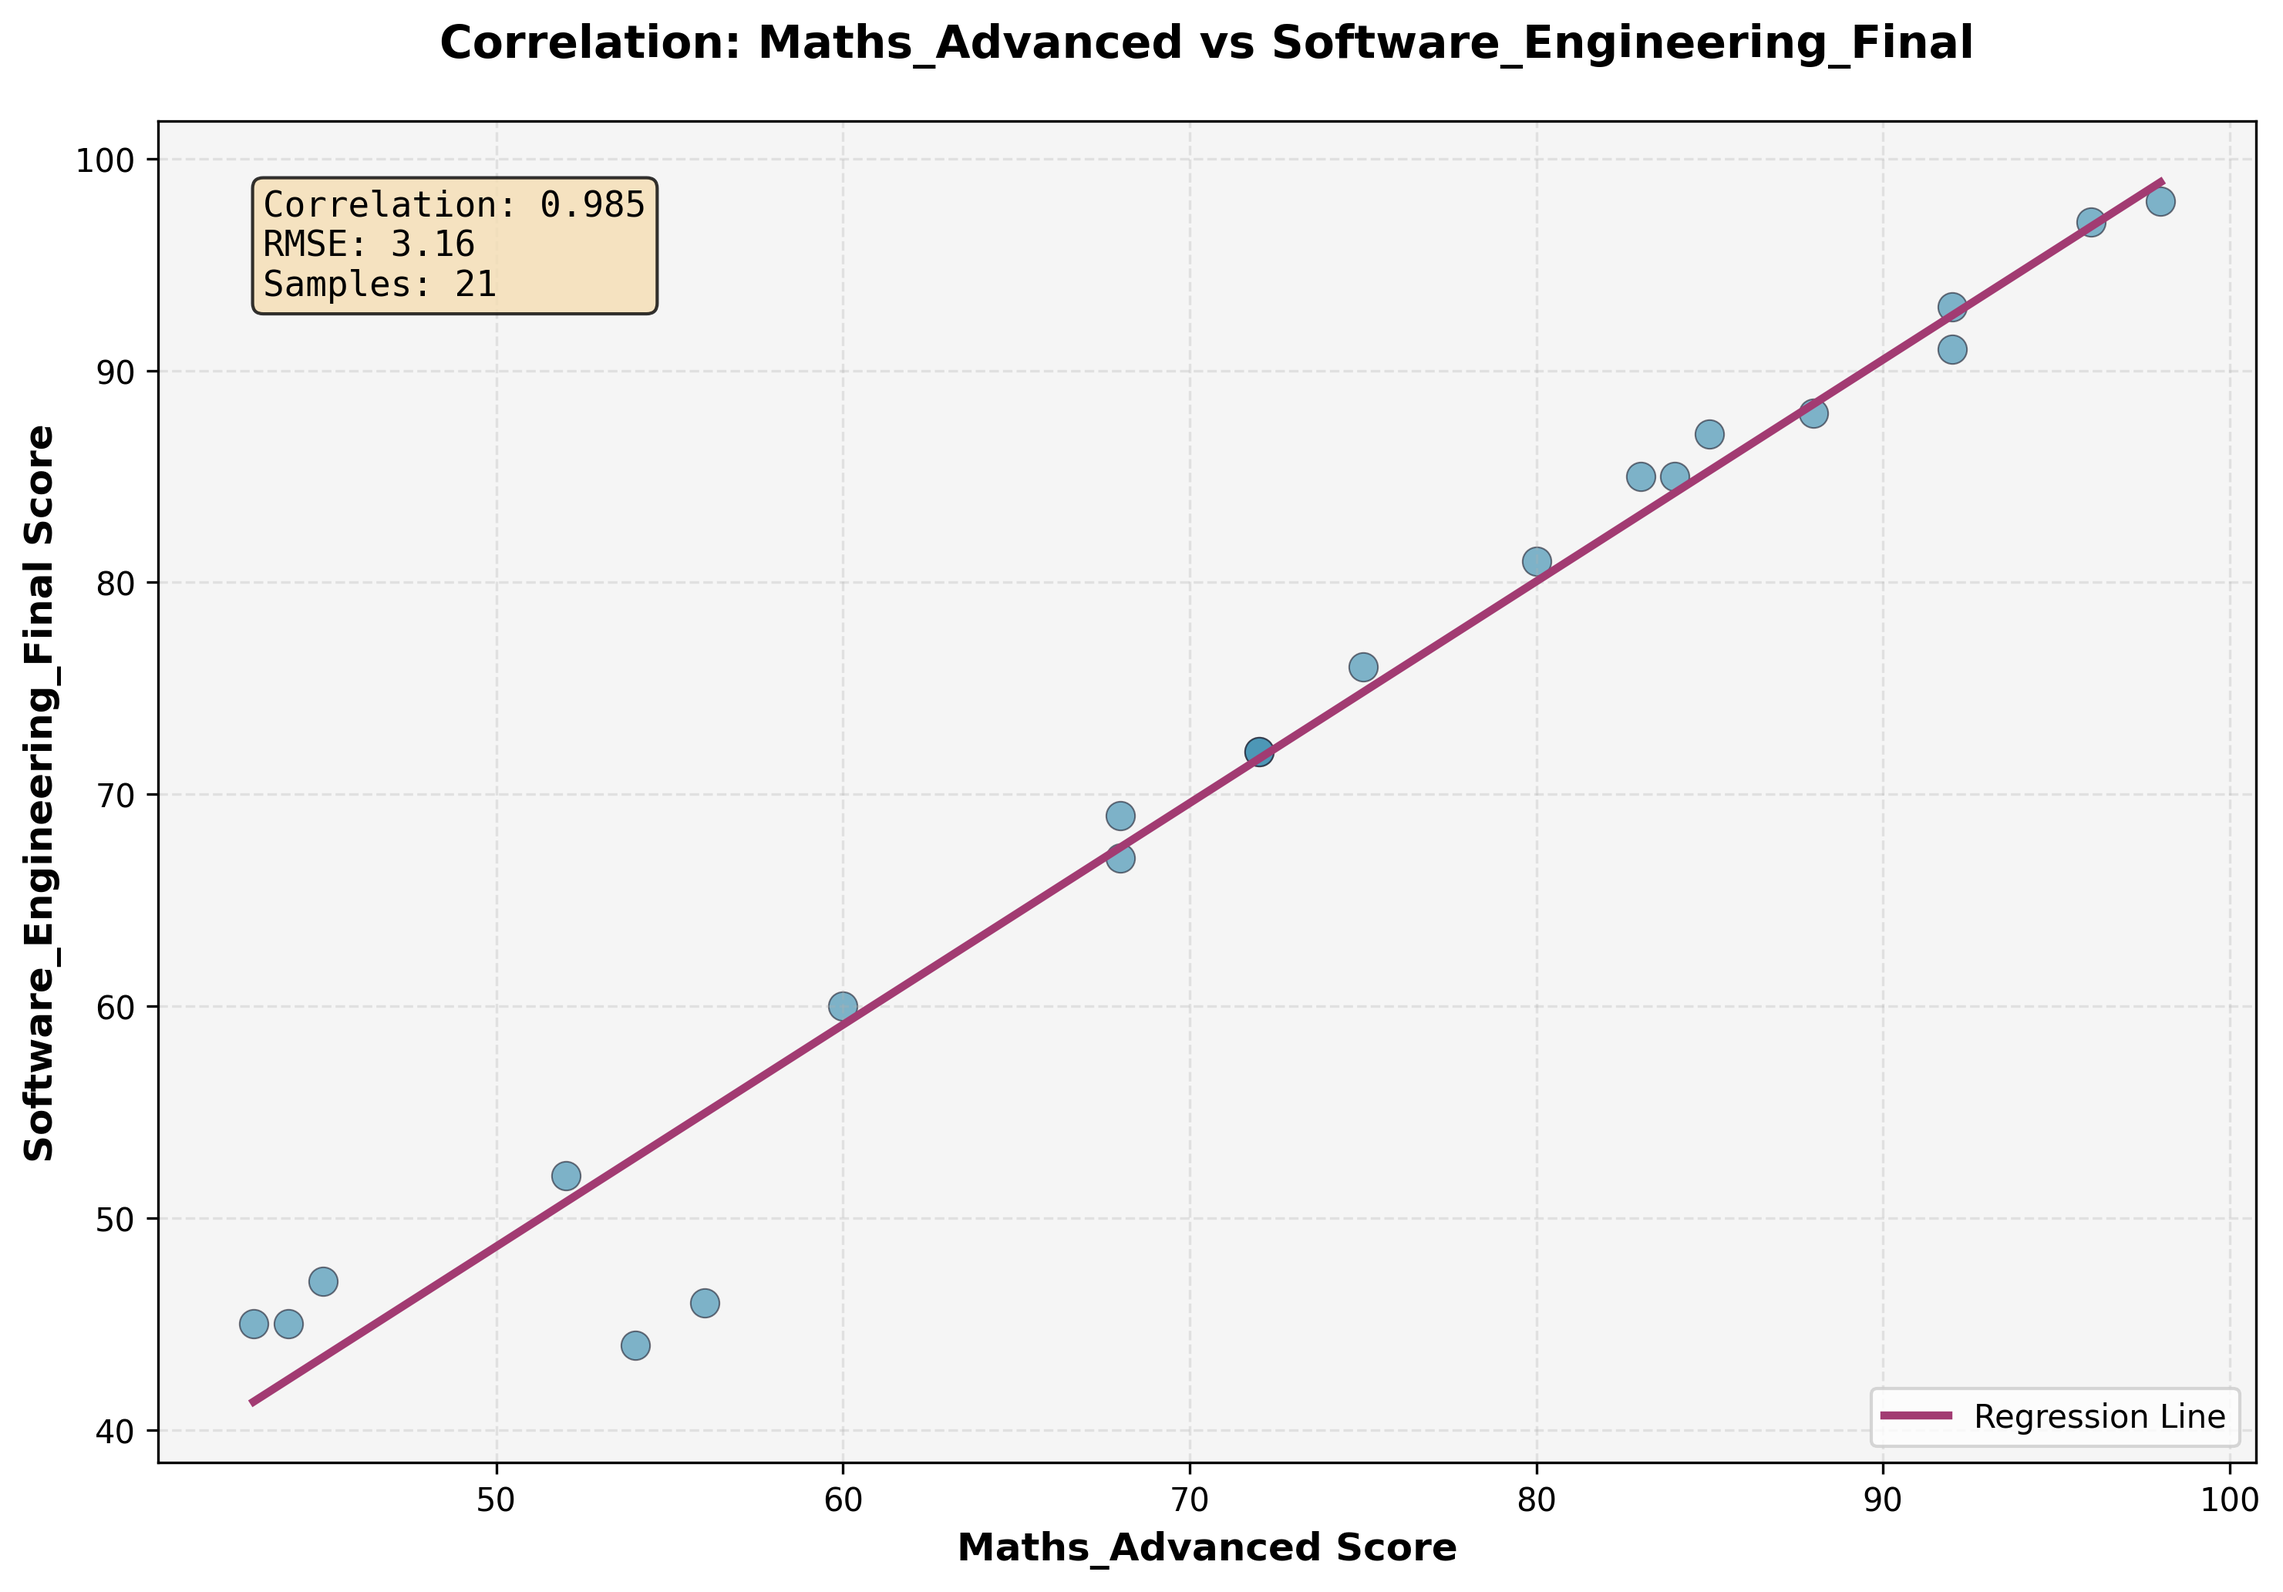
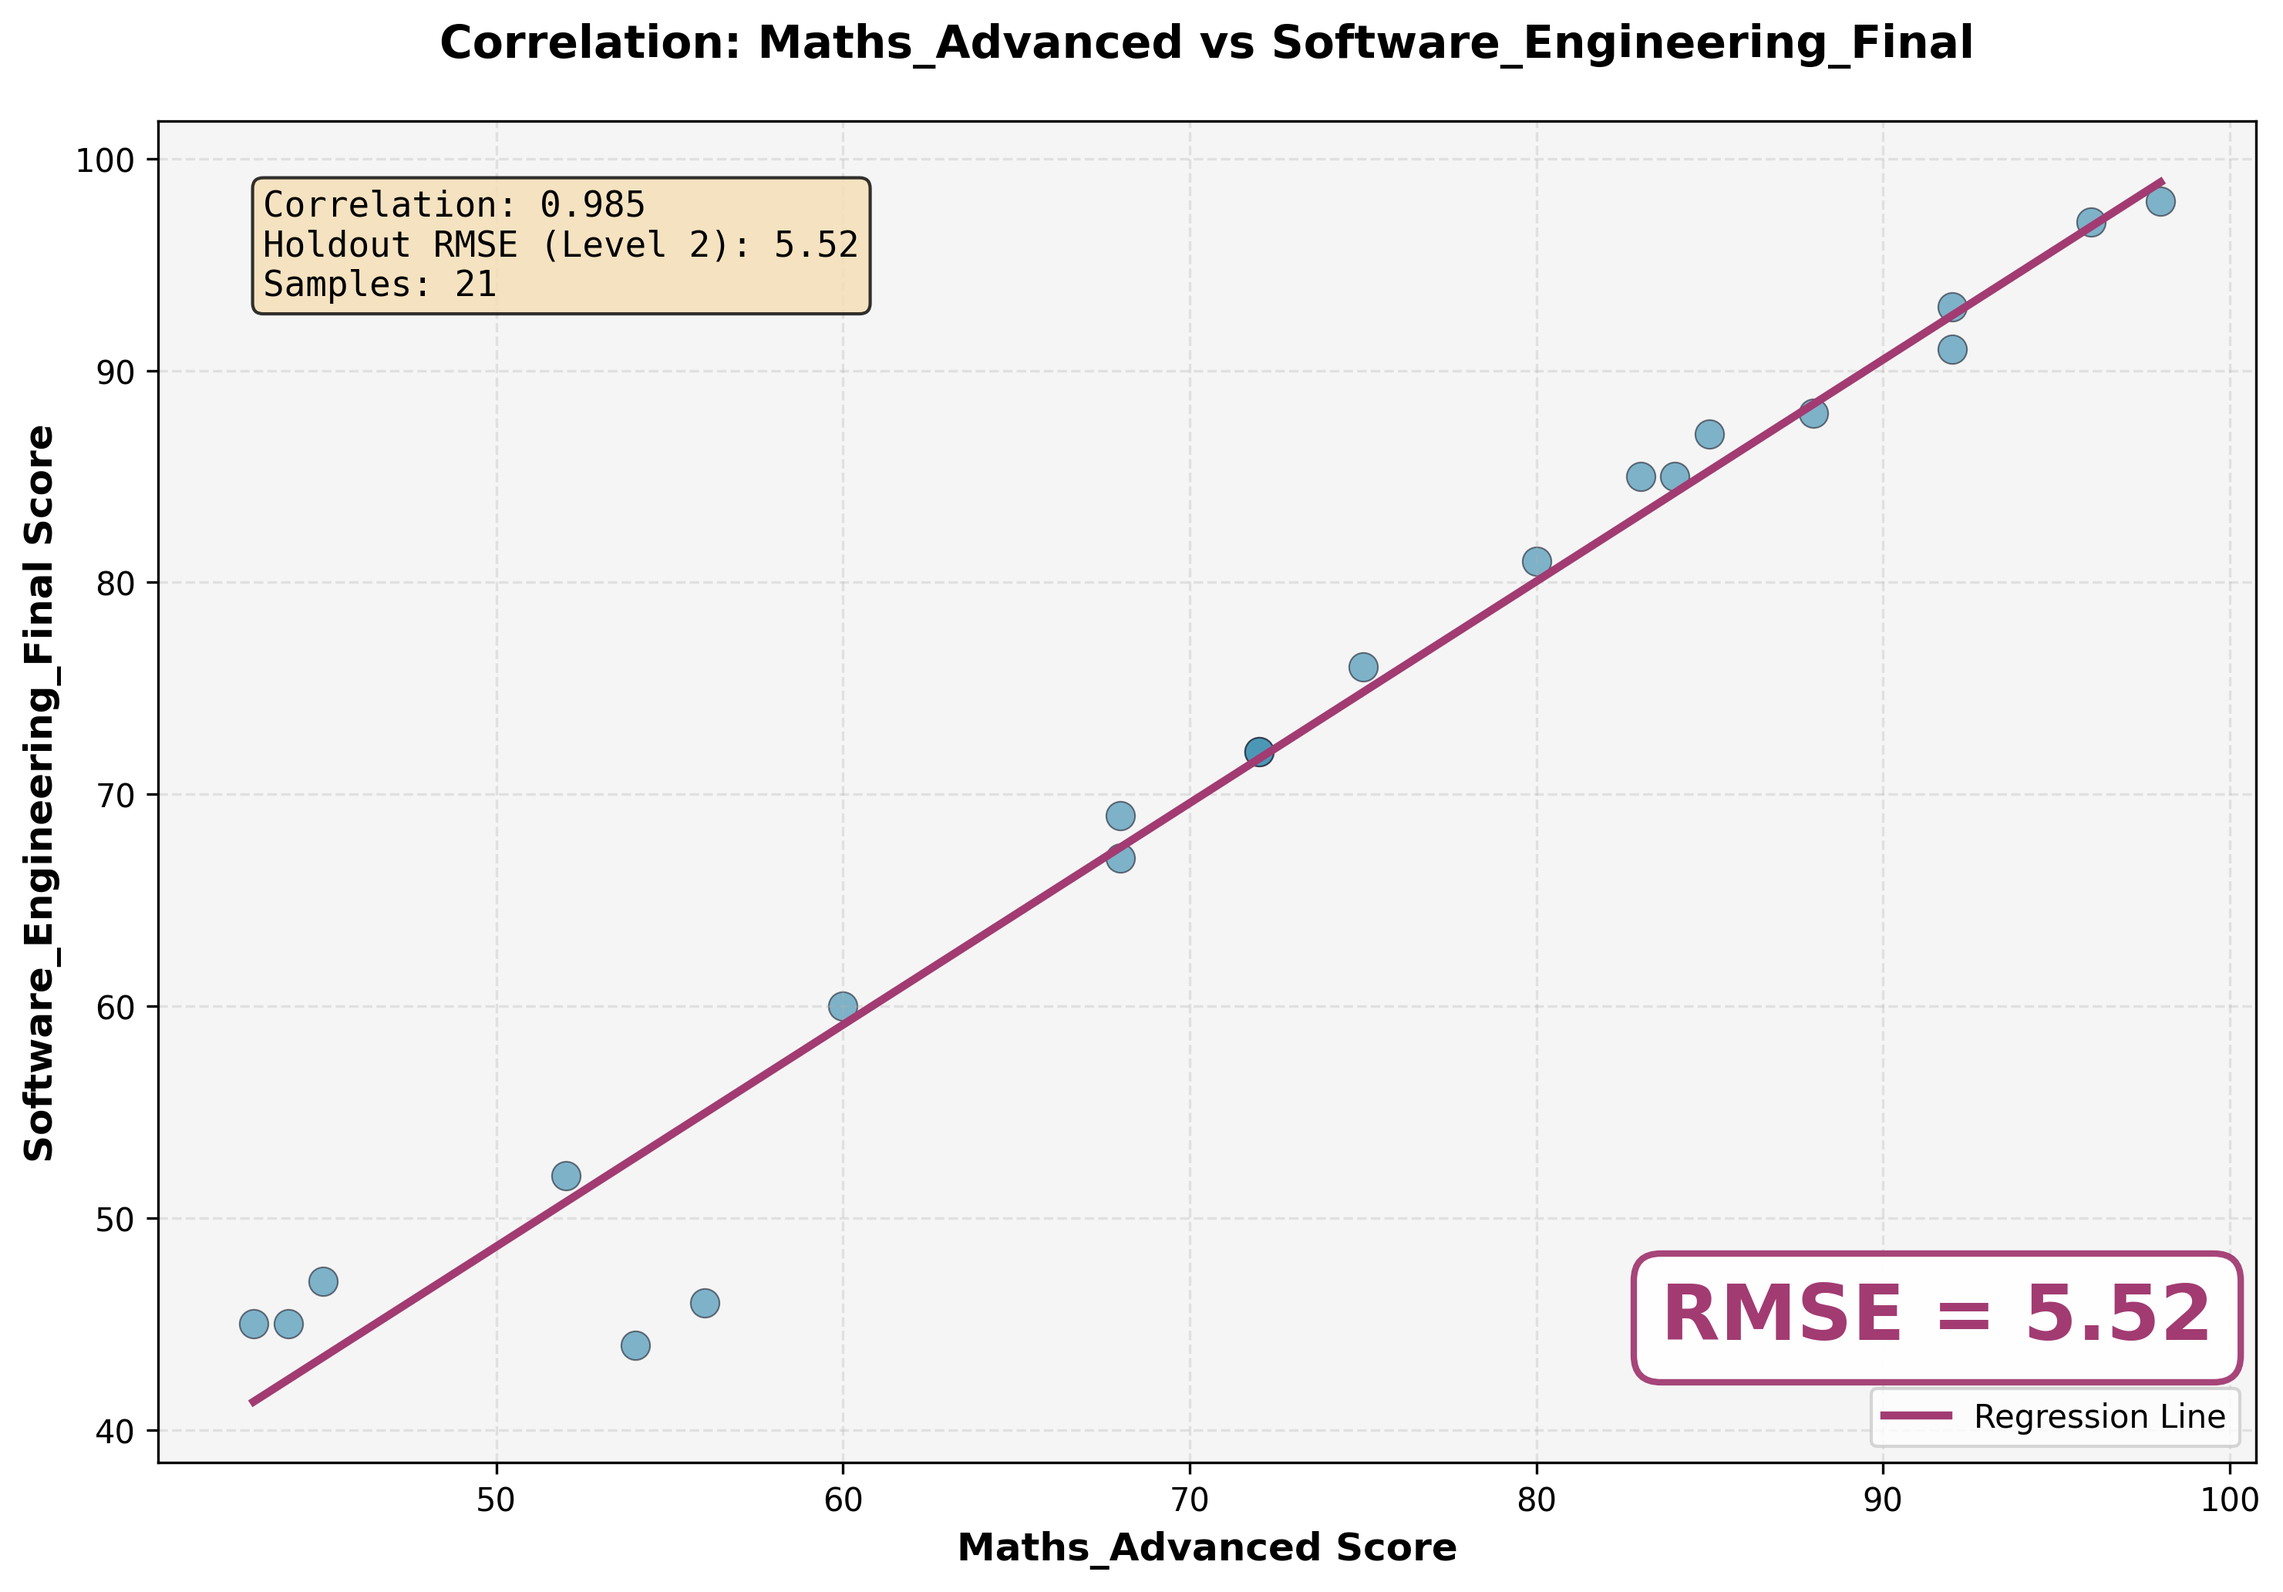
plots + graphs updated to reflect real rmse

diff --git a/visualizations.py b/visualizations.py
@@ -3,11 +3,13 @@
 import matplotlib.pyplot as plt
 import numpy as np
 from sklearn.linear_model import LinearRegression
-from scipy import stats
 
 
 def create_correlation_scatterplot(df, feature='Maths_Advanced', target='Software_Engineering_Final', 
-                                    output_path='correlation_scatterplot.png'):
+                                    output_path='correlation_scatterplot.png',
+                                    rmse_override=None,
+                                    rmse_label='RMSE',
+                                    big_rmse_text=True):
     """
     Generate a 2D scatterplot proving correlation between a feature and target variable.
     
@@ -16,6 +18,9 @@ def create_correlation_scatterplot(df, feature='Maths_Advanced', target='Softwar
         feature: Feature column name (X-axis)
         target: Target column name (Y-axis)
         output_path: Path to save the plot image
+        rmse_override: Optional externally evaluated RMSE (e.g., holdout/test RMSE)
+        rmse_label: Label shown next to RMSE value in the stats box
+        big_rmse_text: Whether to render RMSE as a large prominent overlay
         
     Returns:
         Tuple of (figure, axes, correlation_coefficient, rmse)
@@ -51,11 +56,28 @@ def create_correlation_scatterplot(df, feature='Maths_Advanced', target='Softwar
     ax.set_ylabel(f'{target} Score', fontsize=12, fontweight='bold')
     ax.set_title(f'Correlation: {feature} vs {target}', fontsize=14, fontweight='bold', pad=20)
     
+    # Use the externally evaluated RMSE when provided.
+    rmse_to_display = float(rmse_override) if rmse_override is not None else float(rmse)
+
     # Add statistics box
-    stats_text = f'Correlation: {correlation:.3f}\nRMSE: {rmse:.2f}\nSamples: {len(df)}'
+    stats_text = f'Correlation: {correlation:.3f}\n{rmse_label}: {rmse_to_display:.2f}\nSamples: {len(df)}'
     ax.text(0.05, 0.95, stats_text, transform=ax.transAxes, fontsize=11,
             verticalalignment='top', bbox=dict(boxstyle='round', facecolor='wheat', alpha=0.8),
             family='monospace')
+
+    if big_rmse_text:
+        ax.text(
+            0.98,
+            0.08,
+            f'RMSE = {rmse_to_display:.2f}',
+            transform=ax.transAxes,
+            ha='right',
+            va='bottom',
+            fontsize=24,
+            fontweight='bold',
+            color='#A23B72',
+            bbox=dict(boxstyle='round,pad=0.35', facecolor='white', edgecolor='#A23B72', linewidth=2, alpha=0.95),
+        )
     
     # Grid and legend
     ax.grid(True, alpha=0.3, linestyle='--')
@@ -70,9 +92,9 @@ def create_correlation_scatterplot(df, feature='Maths_Advanced', target='Softwar
     
     print(f'✓ Scatterplot saved to {output_path}')
     print(f'  Correlation Coefficient: {correlation:.4f}')
-    print(f'  RMSE: {rmse:.2f}')
+    print(f'  Displayed {rmse_label}: {rmse_to_display:.2f}')
     
-    return output_path, correlation, rmse
+    return output_path, correlation, rmse_to_display
 
 
 def create_multifeature_scatterplot(df, features=['Maths_Advanced', 'Physics'], 
